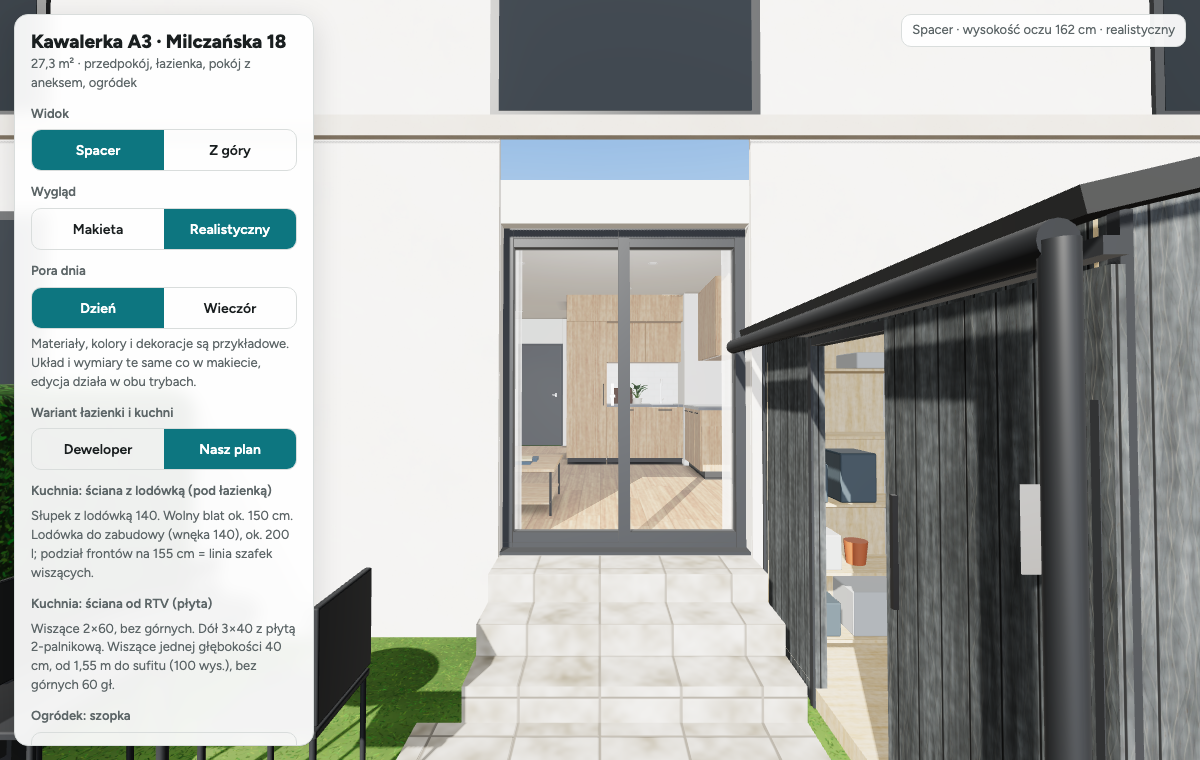
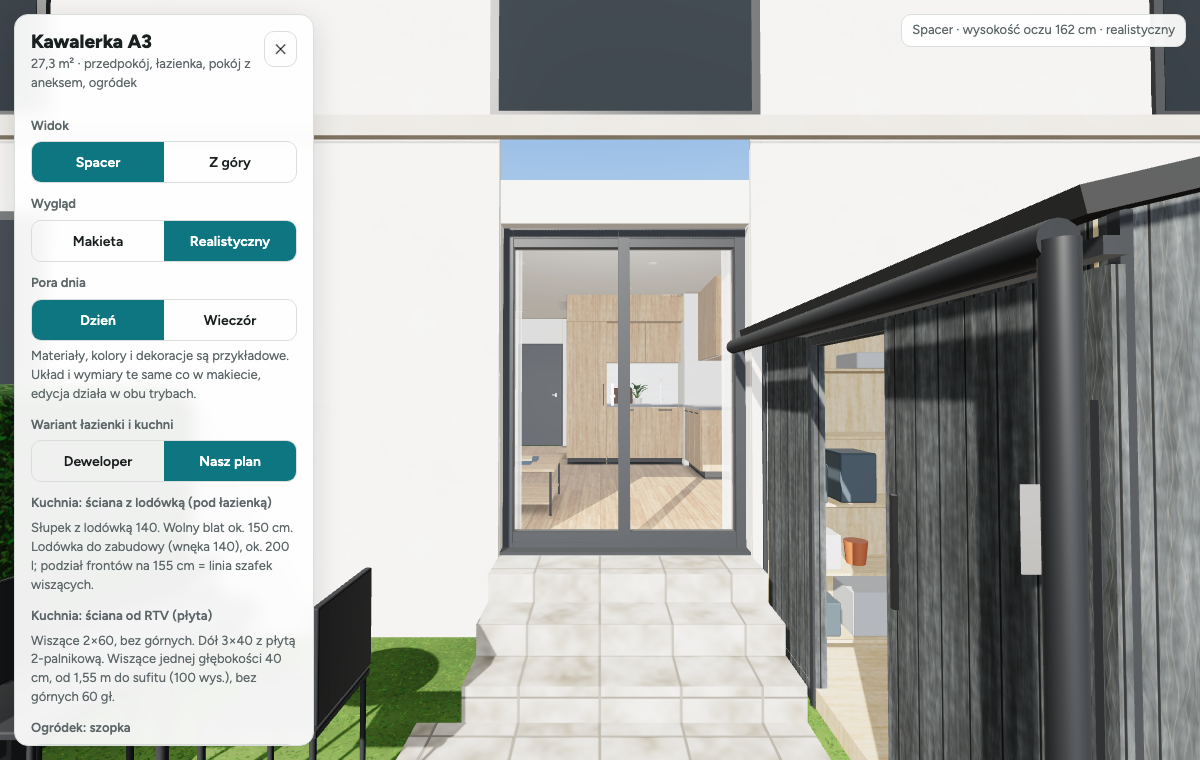
Dodanie sterowania dla telefonów

Changed region(s): [[0.0, 0.1211, 0.2467, 0.9684], [0.1233, 0.0303, 0.2467, 0.0908]]

diff --git a/index.html b/index.html
@@ -2,7 +2,9 @@
 <html lang="pl">
 <head>
 <meta charset="utf-8">
-<meta name="viewport" content="width=device-width,initial-scale=1">
+<meta name="viewport" content="width=device-width,initial-scale=1,viewport-fit=cover">
+<meta name="mobile-web-app-capable" content="yes">
+<meta name="apple-mobile-web-app-capable" content="yes">
 <title>Kawalerka A3 – spacer 3D</title>
 <link rel="preconnect" href="https://fonts.googleapis.com">
 <link href="https://fonts.googleapis.com/css2?family=Figtree:wght@400;600;800&display=swap" rel="stylesheet">
@@ -11,13 +13,27 @@
    IDEA: makieta architektoniczna – biała bryła na stole projektanta
    PICTURE: pełnoekranowy model 3D lokalu, panel jak legenda rysunku
    COLOUR and TYPE: biel/grafit, akcent morski #0d7680; Figtree
-   LAYOUT: model na całym ekranie, panel z lewej (na telefonie – wysuwany od dołu) */
+   LAYOUT: model na całym ekranie, panel z lewej (na telefonie – od dołu), chowany przyciskiem */
 :root{color-scheme:light dark;--bg:light-dark(#eef0ee,#15191a);--panel:light-dark(#ffffffee,#1f2526ee);--ink:light-dark(#1a1f20,#e8ecec);--mut:light-dark(#5d6668,#9aa5a7);--acc:#0d7680;--line:light-dark(#d9dddc,#333b3c)}
 :root[data-theme=light]{color-scheme:light}:root[data-theme=dark]{color-scheme:dark}
 *{box-sizing:border-box;min-width:0}
 html,body{margin:0;height:100%;overflow:hidden;background:var(--bg);color:var(--ink);font:15px/1.45 Figtree,system-ui,sans-serif}
-#c{position:fixed;inset:0;width:100%;height:100%;display:block;touch-action:none;cursor:grab}
+#c{position:fixed;inset:0;width:100%;height:100%;display:block;touch-action:none;cursor:grab;-webkit-user-select:none;user-select:none;-webkit-touch-callout:none}
+button{touch-action:manipulation}
 #panel{position:fixed;left:14px;top:14px;width:300px;max-height:calc(100% - 28px);overflow:auto;background:var(--panel);backdrop-filter:blur(8px);border:1px solid var(--line);border-radius:14px;padding:16px;box-shadow:0 8px 30px #0002}
+body.nopanel #panel{display:none}
+.phead{display:flex;align-items:flex-start;gap:8px}.phead>div{flex:1}
+#hide{min-height:36px;padding:0 10px;flex:none}
+#show{position:fixed;left:calc(14px + env(safe-area-inset-left));top:calc(14px + env(safe-area-inset-top));display:none;background:var(--panel);backdrop-filter:blur(8px);box-shadow:0 4px 16px #0002}
+body.nopanel #show{display:block}
+/* sterowanie dotykiem: joystick spaceru (lewa połowa ekranu) i przyciski widoku z góry */
+#joy{position:fixed;width:120px;height:120px;margin:-60px 0 0 -60px;border-radius:50%;border:2px solid #fff9;background:#0003;pointer-events:none;display:none;left:calc(90px + env(safe-area-inset-left));top:calc(100% - 90px - env(safe-area-inset-bottom));opacity:.55}
+#joy.on{opacity:1}#joy i{position:absolute;left:50%;top:50%;width:50px;height:50px;margin:-25px 0 0 -25px;border-radius:50%;background:#fffc;box-shadow:0 2px 8px #0004}
+body.touch.walk #joy{display:block}
+body:not(.nopanel) #joy:not(.on){display:none}
+#tb{position:fixed;right:calc(14px + env(safe-area-inset-right));bottom:calc(14px + env(safe-area-inset-bottom));display:none;gap:8px}
+body.top #tb{display:flex}
+#tb button{min-width:48px;min-height:48px;font-size:20px;background:var(--panel);backdrop-filter:blur(8px);box-shadow:0 4px 16px #0002}
 h1{font-size:19px;line-height:1.15;margin:0 0 2px;font-weight:800}
 .sub{color:var(--mut);font-size:13px;margin:0 0 12px}
 .lbl{font-size:13px;color:var(--mut);margin:12px 0 6px;font-weight:600}
@@ -37,26 +53,25 @@ button:focus-visible,select:focus-visible,input:focus-visible{outline:2px solid 
 .help{font-size:13px;color:var(--mut);margin:12px 0 0}
 .help b{color:var(--ink)}
 .note{font-size:12px;color:var(--mut);border-top:1px solid var(--line);margin-top:12px;padding-top:10px}
-#toggle{display:none}
-#hud{position:fixed;right:14px;top:14px;background:var(--panel);border:1px solid var(--line);border-radius:10px;padding:6px 10px;font-size:13px;color:var(--mut);pointer-events:none}
+#hud{position:fixed;right:calc(14px + env(safe-area-inset-right));top:calc(14px + env(safe-area-inset-top));max-width:calc(100% - 150px);background:var(--panel);border:1px solid var(--line);border-radius:10px;padding:6px 10px;font-size:13px;color:var(--mut);pointer-events:none}
 #copybox{display:none;width:100%;height:90px;font:12px monospace;margin-top:8px}
 #pastetxt{width:100%;height:90px;font:12px monospace;margin-top:8px;box-sizing:border-box}
 @media(max-width:700px){
- #panel{left:0;right:0;top:auto;bottom:0;width:auto;max-height:60%;border-radius:14px 14px 0 0;transform:translateY(calc(100% - 56px));transition:transform .25s}
- #panel.open{transform:none}
- #toggle{display:block;width:100%;margin-bottom:10px}
- #hud{left:14px;right:auto}
+ #panel{left:0;right:0;top:auto;bottom:0;width:auto;max-height:60%;border-radius:14px 14px 0 0;padding-bottom:calc(16px + env(safe-area-inset-bottom))}
+ body:not(.nopanel) #tb{display:none}
 }
-@media(prefers-reduced-motion:reduce){#panel{transition:none}}
 </style>
 </head>
 <body>
 <canvas id="c"></canvas>
 <div id="hud">Ładowanie modelu…</div>
+<button class="b" id="show" aria-label="Pokaż opcje">☰ Opcje</button>
+<div id="joy" aria-hidden="true"><i></i></div>
+<div id="tb"><button class="b" id="zOut" aria-label="Oddal">−</button><button class="b" id="zIn" aria-label="Przybliż">+</button><button class="b" id="tRot" aria-label="Obróć zaznaczony mebel o 90°" hidden>⟳</button></div>
 <div id="panel">
- <button class="b" id="toggle">☰ Panel</button>
- <h1>Kawalerka A3 · Milczańska 18</h1>
- <p class="sub">27,3 m² · przedpokój, łazienka, pokój z aneksem, ogródek</p>
+ <div class="phead"><div><h1>Kawalerka A3</h1>
+ <p class="sub">27,3 m² · przedpokój, łazienka, pokój z aneksem, ogródek</p></div>
+ <button class="b" id="hide" title="Ukryj opcje (klawisz H)" aria-label="Ukryj opcje">✕</button></div>
  <div class="lbl">Widok</div>
  <div class="seg" id="mode"><button data-m="walk" class="on">Spacer</button><button data-m="top">Z góry</button></div>
  <div class="lbl">Wygląd</div>
@@ -921,11 +936,11 @@ document.querySelectorAll('#tod button').forEach(b=>b.onclick=()=>{tod=b.dataset
 let mode='walk',yaw=Math.PI,pitch=-.05,pos=new THREE.Vector3(1.25,EYE,.8);
 let orb={th:.35,ph:.55,r:13,t:new THREE.Vector3(2.1,0,4.6)};
 const help=document.getElementById('help');
-function setMode(m){mode=m;document.querySelectorAll('#mode button').forEach(b=>b.classList.toggle('on',b.dataset.m===m));
+function setMode(m){mode=m;document.body.classList.toggle('walk',m==='walk');document.body.classList.toggle('top',m==='top');document.querySelectorAll('#mode button').forEach(b=>b.classList.toggle('on',b.dataset.m===m));
  ceil.visible=m==='walk';wallsG.scale.y=m==='walk'?1:.42;lintG.visible=m==='walk';
  if(REAL){REAL.walls.scale.y=m==='walk'?1:.42;REAL.upper.visible=m==='walk'}
  renderer.shadowMap.needsUpdate=true;rebuild(); // też makieta: szopka bez dachu z góry
- help.innerHTML=m==='walk'?'<b>Komputer:</b> WASD/strzałki – chodzenie, przeciągnij myszą – rozglądanie. <b>Telefon:</b> lewa połowa ekranu – chodzenie, prawa – rozglądanie.':'<b>Przeciągnij mebel</b>, żeby go przesunąć (skok 5 cm). Przeciągnij tło – obrót, kółko/szczypanie – zoom. Kliknij mebel, żeby zmienić wymiary.';
+ help.innerHTML=m==='walk'?'<b>Komputer:</b> WASD/strzałki – chodzenie, przeciągnij myszą – rozglądanie. <b>Telefon/tablet:</b> przytrzymaj palec na lewej połowie ekranu i przesuwaj (joystick) – chodzenie, przeciągaj prawą połową – rozglądanie. <b>H</b> lub ✕ chowa ten panel.':'<b>Przeciągnij mebel</b>, żeby go przesunąć (skok 5 cm). Przeciągnij tło – obrót, kółko/szczypanie lub przyciski +/− – zoom. Kliknij mebel, żeby zmienić wymiary; ⟳ obraca zaznaczony mebel.';
  hud.textContent=(m==='walk'?'Spacer · wysokość oczu 162 cm':'Widok z góry · kliknij mebel')+(style==='real'?' · realistyczny':'')}
 document.querySelectorAll('#mode button').forEach(b=>b.onclick=()=>setMode(b.dataset.m));
 document.querySelectorAll('#bath button').forEach(b=>b.onclick=()=>{state.bath=b.dataset.v;markBath();if(selId&&!visible(selItem()))selId=null;rebuild()});
@@ -937,7 +952,17 @@ function markBath(){document.querySelectorAll('#bath button').forEach(b=>b.class
 frSel.onchange=()=>{state.fridge=frSel.value;markBath();if(selId&&!visible(selItem()))selId=null;rebuild()};
 shedSel.onchange=()=>{state.shed=shedSel.value;markBath();if(selId&&!visible(selItem()))selId=null;rebuild()};
 rtvSel.onchange=()=>{state.rtv=rtvSel.value;markBath();if(selId&&!visible(selItem()))selId=null;rebuild()};
-document.getElementById('toggle').onclick=()=>document.getElementById('panel').classList.toggle('open');
+// panel opcji: chowany (✕ / „☰ Opcje” / klawisz H); na telefonie domyślnie schowany, wybór zapamiętany
+const PKEY='a3-milczanska-panel';
+function setPanel(open){document.body.classList.toggle('nopanel',!open);try{localStorage.setItem(PKEY,open?'1':'0')}catch(e){}}
+// dotyk: pokaż joystick, gdy urządzenie ma ekran dotykowy (albo po pierwszym dotknięciu)
+const TOUCH=matchMedia('(pointer:coarse)').matches;if(TOUCH||navigator.maxTouchPoints>0)document.body.classList.add('touch');
+{let p=null;try{p=localStorage.getItem(PKEY)}catch(e){}document.body.classList.toggle('nopanel',p?p==='0':innerWidth<=700||TOUCH)}
+document.getElementById('hide').onclick=()=>setPanel(false);
+document.getElementById('show').onclick=()=>setPanel(true);
+document.getElementById('zIn').onclick=()=>{orb.r=Math.max(3,orb.r/1.25)};
+document.getElementById('zOut').onclick=()=>{orb.r=Math.min(22,orb.r*1.25)};
+document.getElementById('tRot').onclick=()=>{const it=selItem();if(it){it.rot=(it.rot+90)%360;rebuild();save()}};
 
 // ---------- zaznaczanie i edycja ----------
 let selId=null;const selItem=()=>state.items.find(i=>i.id===selId);
@@ -984,27 +1009,31 @@ document.getElementById('copy').onclick=()=>{const txt=JSON.stringify({wariant:s
  navigator.clipboard.writeText(txt).then(()=>{hud.textContent='Układ skopiowany – wklej go w czacie'}).catch(()=>{box.style.display='block';box.select()})};
 
 // ---------- wejście ----------
-const keys={};addEventListener('keydown',e=>{if(e.target.tagName==='INPUT')return;keys[e.code]=true;if(e.code==='KeyR'&&selId&&mode==='top'){const it=selItem();it.rot=(it.rot+90)%360;rebuild()}});
+const keys={};addEventListener('keydown',e=>{if(/INPUT|TEXTAREA|SELECT/.test(e.target.tagName))return;keys[e.code]=true;if(e.code==='KeyH')setPanel(document.body.classList.contains('nopanel'));if(e.code==='KeyR'&&selId&&mode==='top'){const it=selItem();it.rot=(it.rot+90)%360;rebuild()}});
 addEventListener('keyup',e=>keys[e.code]=false);
 const ray=new THREE.Raycaster(),ndc=new THREE.Vector2(),ground=new THREE.Plane(new THREE.Vector3(0,1,0),0);
 function hitFloor(x,y){ndc.set(x/innerWidth*2-1,-(y/innerHeight)*2+1);ray.setFromCamera(ndc,cam);const p=new THREE.Vector3();return ray.ray.intersectPlane(ground,p)?p:null}
 function pickItem(x,y){ndc.set(x/innerWidth*2-1,-(y/innerHeight)*2+1);ray.setFromCamera(ndc,cam);const h=ray.intersectObjects(furn.children,true)[0];if(!h)return null;let o=h.object;while(o.parent!==furn)o=o.parent;return o.userData.id}
+// joystick na ekranie: podstawa w miejscu dotknięcia, gałka do 60 px (pełna prędkość); w spoczynku przy lewym dolnym rogu
+const joyEl=document.getElementById('joy'),knob=joyEl.firstChild;
+function joyShow(){joyEl.classList.toggle('on',!!joy);joyEl.style.left=joy?joy.x+'px':'';joyEl.style.top=joy?joy.y+'px':'';
+ const l=joy?Math.min(1,60/(Math.hypot(joy.dx,joy.dy)||1)):0;knob.style.transform=joy?`translate(${joy.dx*l}px,${joy.dy*l}px)`:''}
 const ptrs=new Map();let drag=null,joy=null,look=null,pinch=0,downAt=null;
 cv.addEventListener('pointerdown',e=>{cv.setPointerCapture(e.pointerId);ptrs.set(e.pointerId,{x:e.clientX,y:e.clientY});downAt={x:e.clientX,y:e.clientY};
  if(mode==='top'){if(ptrs.size===1){const id=pickItem(e.clientX,e.clientY);if(id){const it=state.items.find(i=>i.id===id);ground.constant=-floorAt(it.x,it.z);const p=hitFloor(e.clientX,e.clientY);if(selId!==id){selId=id;rebuild()}drag={id,dx:it.x-p.x,dz:it.z-p.z}}else drag=null}
   if(ptrs.size===2){drag=null;const[a,b]=[...ptrs.values()];pinch=Math.hypot(a.x-b.x,a.y-b.y)}}
- else{if(e.pointerType==='touch'&&e.clientX<innerWidth/2)joy={id:e.pointerId,x:e.clientX,y:e.clientY,dx:0,dy:0};else look={id:e.pointerId}}
+ else{if(e.pointerType==='touch'&&e.clientX<innerWidth/2&&!joy){joy={id:e.pointerId,x:e.clientX,y:e.clientY,dx:0,dy:0};document.body.classList.add('touch');joyShow()}else look={id:e.pointerId}}
  cv.style.cursor='grabbing'});
 cv.addEventListener('pointermove',e=>{const prev=ptrs.get(e.pointerId);if(!prev)return;const dx=e.clientX-prev.x,dy=e.clientY-prev.y;ptrs.set(e.pointerId,{x:e.clientX,y:e.clientY});
  if(mode==='top'){
   if(ptrs.size===2){const[a,b]=[...ptrs.values()],d=Math.hypot(a.x-b.x,a.y-b.y);orb.r=Math.min(22,Math.max(3,orb.r*pinch/d));pinch=d;return}
   if(drag){const p=hitFloor(e.clientX,e.clientY);if(!p)return;const it=state.items.find(i=>i.id===drag.id);it.x=Math.round((p.x+drag.dx)*20)/20;it.z=Math.round((p.z+drag.dz)*20)/20;const g=furn.children.find(c=>c.userData.id===it.id);g.position.set(it.x,floorAt(it.x,it.z),it.z);renderer.shadowMap.needsUpdate=true;hud.textContent=`${it.name}: x ${Math.round((it.x-footprint(it)[0]/2)*100)} cm od lewej ściany, ${Math.round((it.z-footprint(it)[1]/2)*100)} cm od ściany wejściowej`}
   else{orb.th-=dx*.006;orb.ph=Math.min(1.45,Math.max(.08,orb.ph-dy*.006))}}
- else{if(joy&&joy.id===e.pointerId){joy.dx=e.clientX-joy.x;joy.dy=e.clientY-joy.y}
+ else{if(joy&&joy.id===e.pointerId){joy.dx=e.clientX-joy.x;joy.dy=e.clientY-joy.y;joyShow()}
   else if(look&&look.id===e.pointerId){yaw-=dx*.005;pitch=Math.min(1.2,Math.max(-1.2,pitch-dy*.005))}}});
 const up=e=>{ptrs.delete(e.pointerId);if(drag){save();drag=null}
  if(mode==='top'&&downAt&&Math.hypot(e.clientX-downAt.x,e.clientY-downAt.y)<4&&!pickItem(e.clientX,e.clientY)&&selId){selId=null;rebuild()}
- if(joy&&joy.id===e.pointerId)joy=null;if(look&&look.id===e.pointerId)look=null;cv.style.cursor='grab'};
+ if(joy&&joy.id===e.pointerId){joy=null;joyShow()}if(look&&look.id===e.pointerId)look=null;cv.style.cursor='grab'};
 cv.addEventListener('pointerup',up);cv.addEventListener('pointercancel',up);
 cv.addEventListener('wheel',e=>{e.preventDefault();if(mode==='top')orb.r=Math.min(22,Math.max(3,orb.r*(1+e.deltaY*.001)))},{passive:false});
 
@@ -1012,7 +1041,8 @@ function blocked(x,z){const r=.18;return solids.concat(itemSolids()).some(([a,b,
 function resize(){renderer.setSize(innerWidth,innerHeight,false);cam.aspect=innerWidth/innerHeight;cam.updateProjectionMatrix()}
 addEventListener('resize',resize);resize();
 let last=performance.now();
-function tick(t){const dt=Math.min(.05,(t-last)/1000);last=t;
+const tRot=document.getElementById('tRot');
+function tick(t){const dt=Math.min(.05,(t-last)/1000);last=t;tRot.hidden=!(mode==='top'&&selId);
  if(mode==='walk'){let f=0,s=0;if(keys.KeyW||keys.ArrowUp)f+=1;if(keys.KeyS||keys.ArrowDown)f-=1;if(keys.KeyA)s-=1;if(keys.KeyD)s+=1;if(keys.ArrowLeft)yaw+=1.8*dt;if(keys.ArrowRight)yaw-=1.8*dt;
   if(joy){f-=Math.max(-1,Math.min(1,joy.dy/60));s+=Math.max(-1,Math.min(1,joy.dx/60))}
   const sp=1.6*dt,fx=-Math.sin(yaw),fz=-Math.cos(yaw),nx=pos.x+(fx*f-fz*s)*sp,nz=pos.z+(fz*f+fx*s)*sp;

diff --git a/CLAUDE.md b/CLAUDE.md
@@ -55,7 +55,9 @@ na etapie koncepcji, przed decyzjami instalacyjnymi. Interfejs i komentarze po p
 - Stan zapisuje się w `localStorage` (klucz `a3-milczanska-uklad-v10`; v1–v9 migrują się z zachowaniem pozycji, przy migracji meble łazienki „nasz” biorą się z `DEFAULT`). Po zmianie `DEFAULT` użyj „Reset”
   albo podbij wersję klucza.
 - Sterowanie: Spacer (WASD/strzałki + przeciąganie myszą; telefon: lewa połowa = chodzenie, prawa = rozglądanie),
-  Z góry (przeciąganie mebla, skok 5 cm; tło = obrót; kółko/szczypanie = zoom; R = obrót mebla).
+  Z góry (przeciąganie mebla, skok 5 cm; tło = obrót; kółko/szczypanie albo przyciski +/− = zoom; R albo ⟳ = obrót mebla).
+- Panel opcji chowany (✕ w panelu, „☰ Opcje”, klawisz H; stan w `localStorage` `a3-milczanska-panel`, na telefonie/tablecie domyślnie schowany).
+  Na urządzeniach dotykowych (`body.touch`) w spacerze widać joystick (`#joy`) – podstawa wskakuje pod palec na lewej połowie ekranu.
 - „Kopiuj układ” daje JSON z pozycjami w cm (plus `id`, `rodzaj`), do wklejenia w rozmowie. „Wklej układ” (`applyLayout`) przyjmuje ten tekst albo plik układu:
   meble dopasowuje po `id`, potem po nazwie; brakujące tworzy wg `rodzaj`, widoczne meble spoza listy ukrywa (jak „Usuń”).
 - „Pobierz plik układu” zapisuje pełny stan do `uklad-A3-RRRR-MM-DD_GGMM.json` (`{plik,wersja,zapisano,stan}`), „Wczytaj plik” go przywraca.
